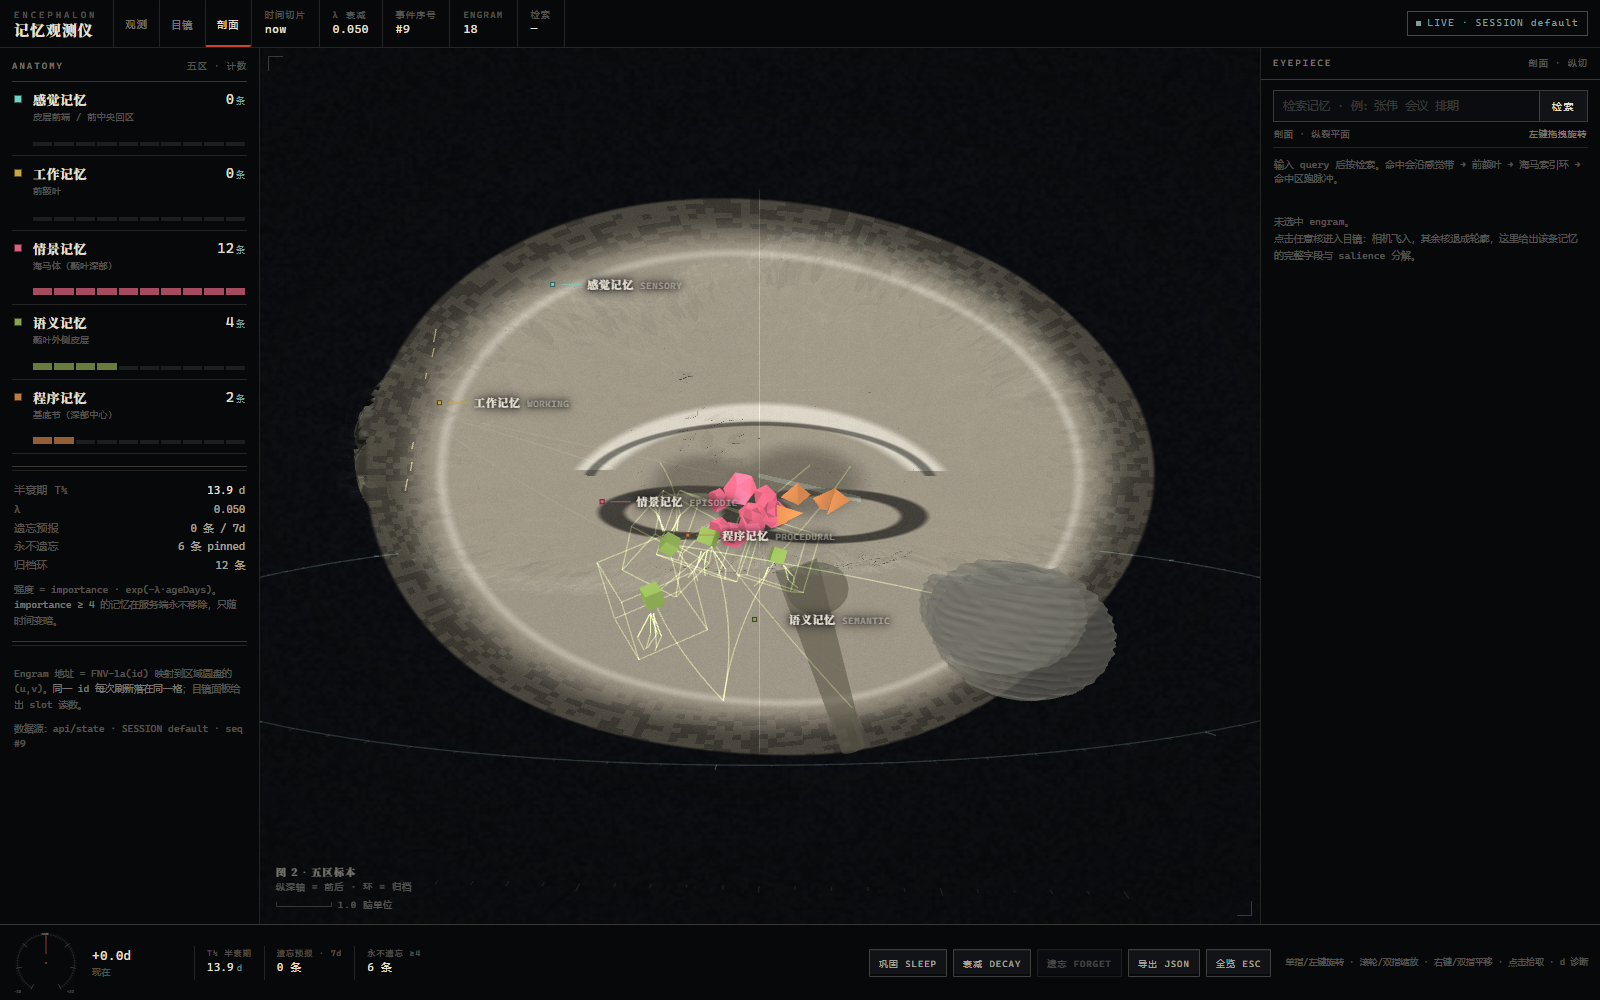
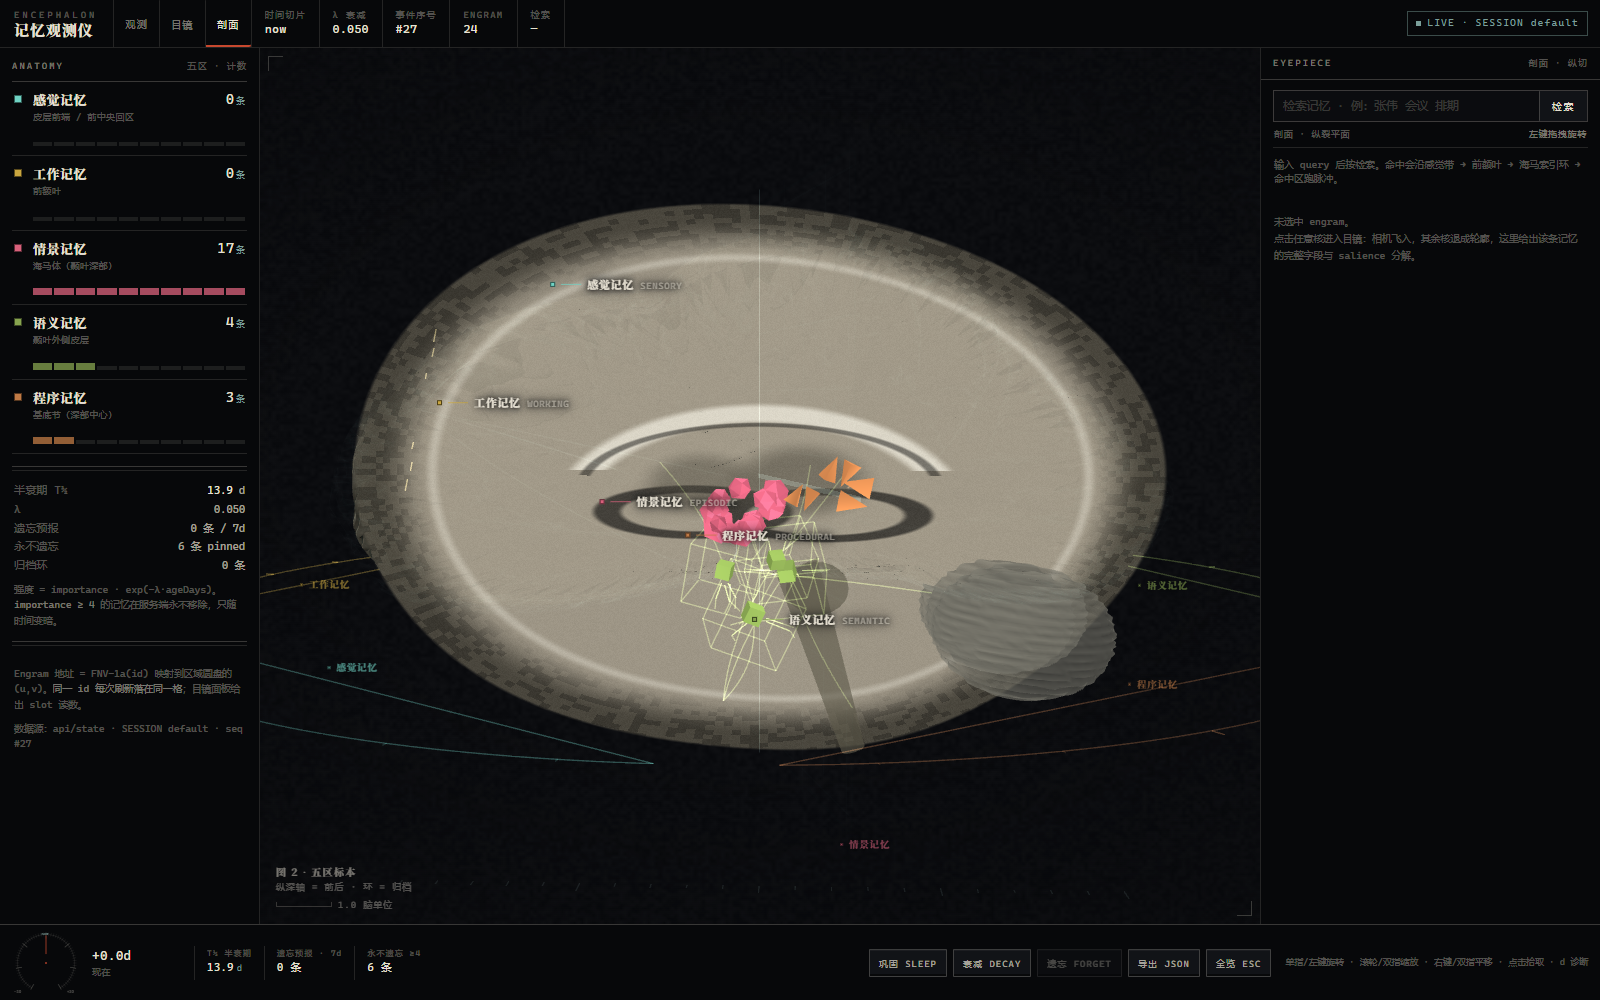
feat(3d): 额极/颞极/枕极三段收窄 + 颅顶弧线，极部不再圆钝

diff --git a/dist/deepseek-brain-3d.html b/dist/deepseek-brain-3d.html
@@ -927,10 +927,14 @@ globalThis.THREE=Object.freeze({ACESFilmicToneMapping:nt,AddEquation:M,AddOperat
      （额极收窄、颞叶外凸、枕极圆钝），沟回位移再叠在它上面。            */
   /* [cx,cy,cz, rx,ry,rz, mirror?] — 单位球空间里的四叶，颞叶按 side 镜像 */
   var LOBE_C = [
-    [0.00, 0.06, 0.50, 0.86, 0.84, 0.80, 0],   /* 额叶：前下方略收 */
+    [0.00, 0.06, 0.50, 0.86, 0.84, 0.80, 0],   /* 额叶主体 */
     [0.00, 0.26, -0.20, 0.92, 0.92, 0.72, 0],  /* 顶叶：顶点抬高 */
-    [0.00, -0.06, -0.68, 0.78, 0.64, 0.50, 0], /* 枕叶：圆钝 */
-    [-0.66, -0.30, 0.10, 0.50, 0.40, 0.72, 1]  /* 颞叶：外凸但不臃肿 */
+    [0.00, -0.06, -0.68, 0.78, 0.64, 0.50, 0], /* 枕叶主体 */
+    [-0.66, -0.30, 0.10, 0.50, 0.40, 0.72, 1], /* 颞叶：外凸但不臃肿 */
+    /* 三个极部：更小的半径 + 更靠前/后，靠并集的圆角把主体收成锥形 */
+    [0.00, -0.02, 0.88, 0.46, 0.42, 0.30, 0],  /* 额极：窄、略低，压出眉弓下的收口 */
+    [-0.56, -0.34, 0.66, 0.33, 0.27, 0.28, 1], /* 颞极：向前下方探出的钩 */
+    [0.00, -0.02, -1.00, 0.36, 0.30, 0.24, 0]  /* 枕极：收成一小段锥 */
   ];
 
   function lobeField(x, y, z, side) {
@@ -943,7 +947,7 @@ globalThis.THREE=Object.freeze({ACESFilmicToneMapping:nt,AddEquation:M,AddOperat
       var dz = (z - L[2]) / L[5];
       var v = 1 - (dx * dx + dy * dy + dz * dz);
       /* polynomial smooth-max：叶与叶之间是圆角过渡，不是硬边 */
-      var k = 0.14;
+      var k = 0.115;
       var h = clamp(0.5 + 0.5 * (v - best) / k, 0, 1);
       best = lerp(best, v, h) + k * h * (1 - h) * 0.5;
     }
@@ -1102,7 +1106,10 @@ globalThis.THREE=Object.freeze({ACESFilmicToneMapping:nt,AddEquation:M,AddOperat
     var x = side * mx * lobe * disp * BRAIN.AX * 0.92;
     var y = pyFlat * lobe * disp * BRAIN.AY * 0.88 + 0.05 * smoothstep(0.4, 1.0, -pz);
     var z = pz * lobe * disp * BRAIN.AZ;
-    x *= 1 - 0.10 * smoothstep(0.45, 1.0, pz);
+    /* 颅顶弧线：中段最高，额极与枕极都往下沉，避免两头是等高的圆球面 */
+    y -= 0.125 * smoothstep(0.18, 0.98, Math.abs(pz)) * lobe * BRAIN.AY * 0.88;
+    /* 极部再收一点宽度，从上方看是卵形而不是跑道形 */
+    x *= 1 - 0.13 * smoothstep(0.34, 1.0, Math.abs(pz));
     return { x: x, y: y, z: z, sul: sul, bump: bump, shade: clamp(0.20 + 0.95 * bump * (1 - 0.85 * sul) + 0.10 * warpB, 0, 1) };
   }
 
@@ -1631,7 +1638,7 @@ globalThis.THREE=Object.freeze({ACESFilmicToneMapping:nt,AddEquation:M,AddOperat
     ].join(String.fromCharCode(10))
   });
 
-  var sectionPlane = new THREE.Mesh(new THREE.PlaneGeometry(BRAIN.AZ * 2.06, BRAIN.AY * 2.02), sectionMat);
+  var sectionPlane = new THREE.Mesh(new THREE.PlaneGeometry(BRAIN.AZ * 2.12, BRAIN.AY * 1.98), sectionMat);
   sectionPlane.rotation.y = Math.PI / 2;
   sectionPlane.visible = false;
   sectionPlane.renderOrder = 1;

diff --git a/web/brain-3d.html b/web/brain-3d.html
@@ -915,10 +915,14 @@
      （额极收窄、颞叶外凸、枕极圆钝），沟回位移再叠在它上面。            */
   /* [cx,cy,cz, rx,ry,rz, mirror?] — 单位球空间里的四叶，颞叶按 side 镜像 */
   var LOBE_C = [
-    [0.00, 0.06, 0.50, 0.86, 0.84, 0.80, 0],   /* 额叶：前下方略收 */
+    [0.00, 0.06, 0.50, 0.86, 0.84, 0.80, 0],   /* 额叶主体 */
     [0.00, 0.26, -0.20, 0.92, 0.92, 0.72, 0],  /* 顶叶：顶点抬高 */
-    [0.00, -0.06, -0.68, 0.78, 0.64, 0.50, 0], /* 枕叶：圆钝 */
-    [-0.66, -0.30, 0.10, 0.50, 0.40, 0.72, 1]  /* 颞叶：外凸但不臃肿 */
+    [0.00, -0.06, -0.68, 0.78, 0.64, 0.50, 0], /* 枕叶主体 */
+    [-0.66, -0.30, 0.10, 0.50, 0.40, 0.72, 1], /* 颞叶：外凸但不臃肿 */
+    /* 三个极部：更小的半径 + 更靠前/后，靠并集的圆角把主体收成锥形 */
+    [0.00, -0.02, 0.88, 0.46, 0.42, 0.30, 0],  /* 额极：窄、略低，压出眉弓下的收口 */
+    [-0.56, -0.34, 0.66, 0.33, 0.27, 0.28, 1], /* 颞极：向前下方探出的钩 */
+    [0.00, -0.02, -1.00, 0.36, 0.30, 0.24, 0]  /* 枕极：收成一小段锥 */
   ];
 
   function lobeField(x, y, z, side) {
@@ -931,7 +935,7 @@
       var dz = (z - L[2]) / L[5];
       var v = 1 - (dx * dx + dy * dy + dz * dz);
       /* polynomial smooth-max：叶与叶之间是圆角过渡，不是硬边 */
-      var k = 0.14;
+      var k = 0.115;
       var h = clamp(0.5 + 0.5 * (v - best) / k, 0, 1);
       best = lerp(best, v, h) + k * h * (1 - h) * 0.5;
     }
@@ -1090,7 +1094,10 @@
     var x = side * mx * lobe * disp * BRAIN.AX * 0.92;
     var y = pyFlat * lobe * disp * BRAIN.AY * 0.88 + 0.05 * smoothstep(0.4, 1.0, -pz);
     var z = pz * lobe * disp * BRAIN.AZ;
-    x *= 1 - 0.10 * smoothstep(0.45, 1.0, pz);
+    /* 颅顶弧线：中段最高，额极与枕极都往下沉，避免两头是等高的圆球面 */
+    y -= 0.125 * smoothstep(0.18, 0.98, Math.abs(pz)) * lobe * BRAIN.AY * 0.88;
+    /* 极部再收一点宽度，从上方看是卵形而不是跑道形 */
+    x *= 1 - 0.13 * smoothstep(0.34, 1.0, Math.abs(pz));
     return { x: x, y: y, z: z, sul: sul, bump: bump, shade: clamp(0.20 + 0.95 * bump * (1 - 0.85 * sul) + 0.10 * warpB, 0, 1) };
   }
 
@@ -1619,7 +1626,7 @@
     ].join(String.fromCharCode(10))
   });
 
-  var sectionPlane = new THREE.Mesh(new THREE.PlaneGeometry(BRAIN.AZ * 2.06, BRAIN.AY * 2.02), sectionMat);
+  var sectionPlane = new THREE.Mesh(new THREE.PlaneGeometry(BRAIN.AZ * 2.12, BRAIN.AY * 1.98), sectionMat);
   sectionPlane.rotation.y = Math.PI / 2;
   sectionPlane.visible = false;
   sectionPlane.renderOrder = 1;

diff --git a/README.md b/README.md
@@ -373,6 +373,8 @@ node tools/build-3d.mjs      # 生成 dist/deepseek-brain-3d.html
   - **叶区调制**：相位再乘一个由前后位置决定的 `gf = 1 − 0.15·smoothstep(0, 0.90, pz) + 0.20·smoothstep(0.10, −0.85, pz)`——额极更宽（`gf≈0.85`）、枕极更细（`gf≈1.20`），治掉原先「脑回宽度整齐划一」的塑料感。
   合成 `bump = (1−sul)·0.55 + 0.45·warpA + 0.18·wall`，`disp = 1 + 0.094·bump − 0.118·sul`。中央沟与外侧裂因此是真正的分叶深沟，不是画上去的线。
 - 半球细分 `seg: [224, 168]`（低画质 `[104, 80]`），约 10 万顶点/半球；加载时一次性算完位移与顶点色，桌面端 `DOMContentLoaded ≈ 1.2 s`。
+- 形体不是一颗椭球，而是 **四叶 + 三个极部** 的隐式场并集：额/顶/枕/颞四叶给主体，另加额极 `[0,-0.02,0.88, 0.46,0.42,0.30]`、颞极 `[-0.56,-0.34,0.66, 0.33,0.27,0.28]`（镜像）、枕极 `[0,-0.02,-1.00, 0.36,0.30,0.24]` 三个更小更靠外的椭球——靠 `polynomial smooth-max`（`k=0.115`）的圆角过渡把主体收成锥形，极部不再是两个等高的球面。
+- 颅顶弧线单列一条：`y -= 0.125 * smoothstep(0.18, 0.98, |pz|) * lobe`，中段最高、额极与枕极一起下沉；同时 `x *= 1 - 0.13*smoothstep(0.34,1.0,|pz|)` 让极部收窄，从上方看是卵形而不是跑道形。
 - 小脑是两半球 + 蚓部三个网格（共用一份叶片条纹几何），脑干与桥脑独立。
 - 皮层用 `MeshStandardMaterial` 承接真实定向光（key/fill/rim 三灯 + 半球光），顶点色承载沟回的「沟底变暗」；engram 用 `depthTest:false` 的 X 光叠加，所以能隔着皮质看到深部结构——这是仪器语义，不是穿模。
 - 剖面切面是**解析式着色器**：`vUv` 上算灰质带（`smoothstep(rim-0.19, rim-0.05, r)`）、皮质-白质交界亮线、胼胝体弧、穹窿、侧脑室、基底节，再叠一层 hash 颗粒与沿灰质带的沟刻痕；不经过纹理，所以没有色彩空间损耗。
